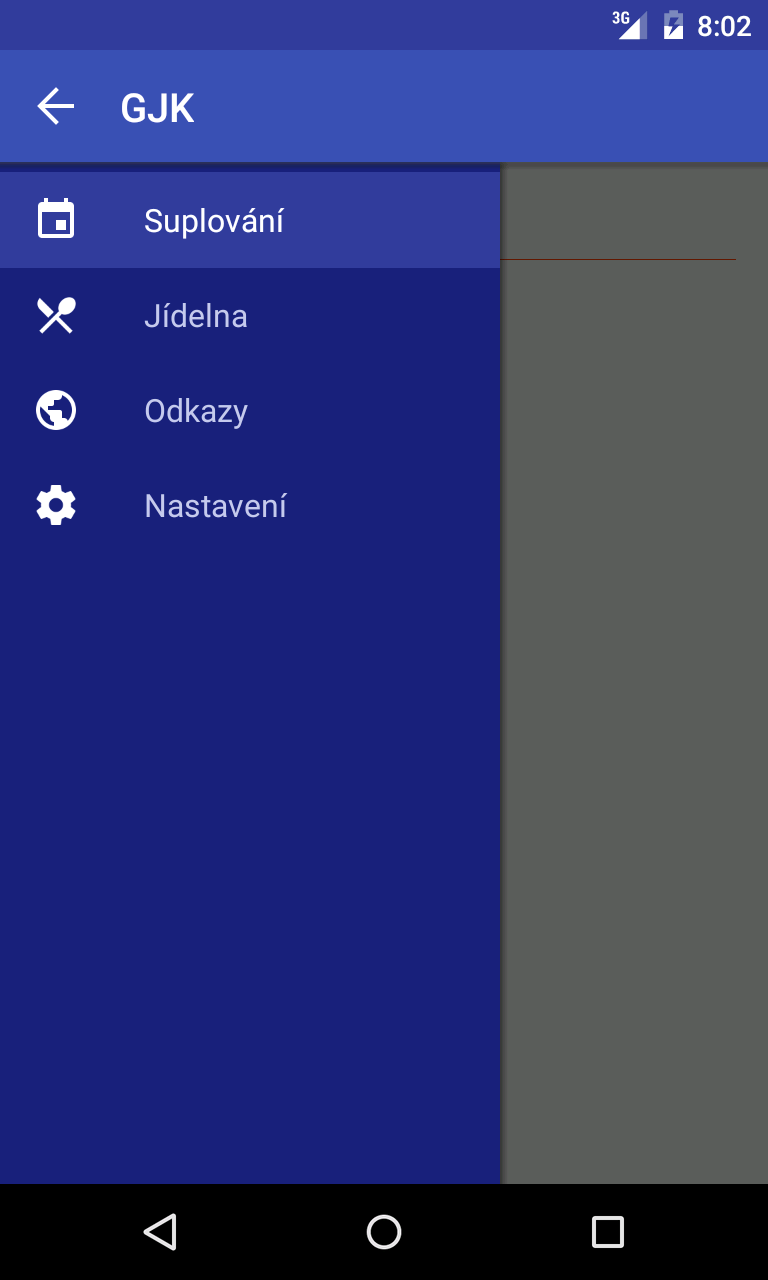
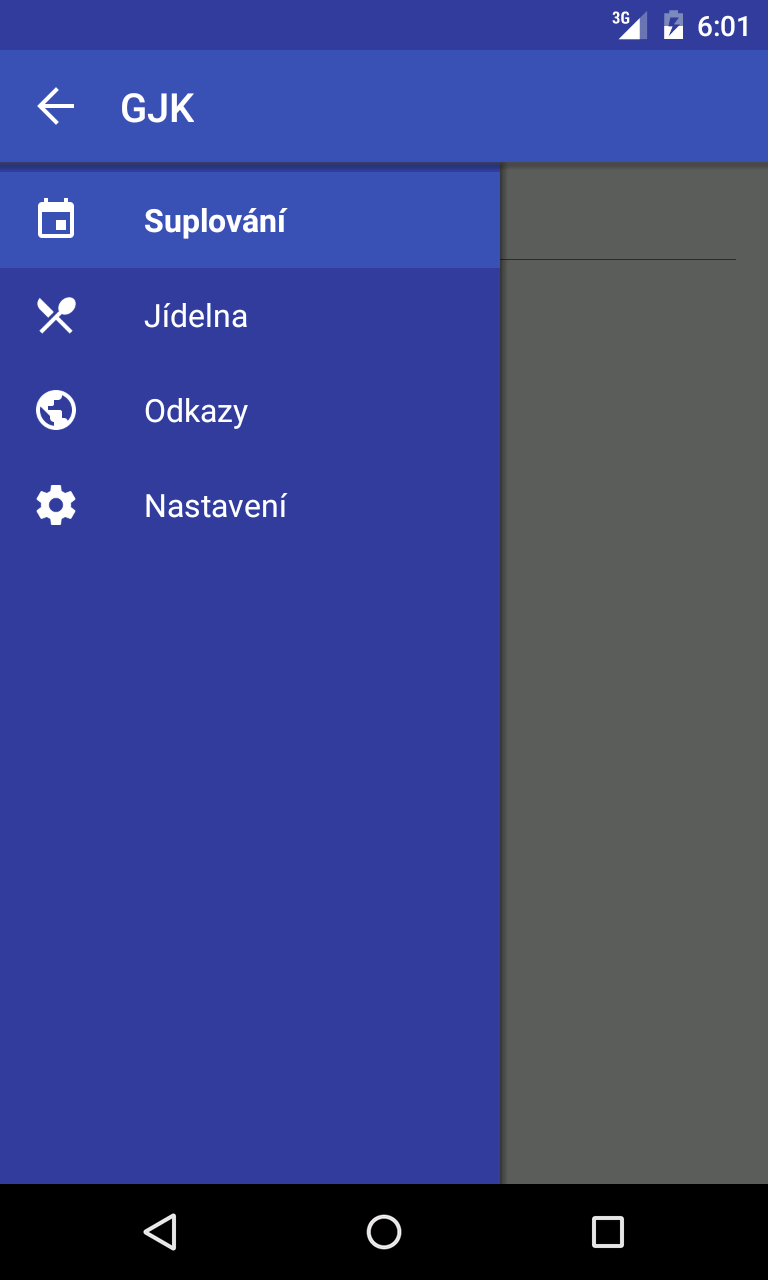
Zvýrazňování aktuální položky v navigaci

diff --git a/Kepler/app/src/main/java/gjk/kepler/Home.java b/Kepler/app/src/main/java/gjk/kepler/Home.java
@@ -14,6 +14,7 @@ import android.view.MenuItem;
 import android.view.View;
 import android.widget.AdapterView;
 import android.widget.ListView;
+import android.widget.Toast;
 
 import java.util.ArrayList;
 
@@ -24,6 +25,8 @@ public class Home extends BaseActivity {
 
     //navigation drawer
     private String[] navigationTitles;
+    private ArrayList<NavigationItem> navigationItems;
+    private NavigationAdapter drawerAdapter;
     private DrawerLayout drawerLayout;
     private ListView drawerList;
     private ActionBarDrawerToggle drawerToggle;
@@ -58,14 +61,15 @@ public class Home extends BaseActivity {
 
         navigationTitles = getResources().getStringArray(R.array.navigation_titles);
         TypedArray navigationIcons = getResources().obtainTypedArray(R.array.navigation_icons);
-        ArrayList<NavigationItem> navigationItems = new ArrayList<NavigationItem>();
+        navigationItems = new ArrayList<NavigationItem>();
         // Nastavit adapter, který naplní navigation_drawer položkami NavigationItem (TextView+ImageView),
         // které jsou specifikované v drawer_list_item.xml
         for(int i=0;i<navigationTitles.length;i++){
             navigationItems.add(new NavigationItem(navigationTitles[i], navigationIcons.getResourceId(i, -1)));
         }
         navigationIcons.recycle(); //uvolnit resources
-        drawerList.setAdapter(new NavigationAdapter(this, R.layout.drawer_list_item, R.id.navigationTitle, navigationItems));
+        drawerAdapter = new NavigationAdapter(this, R.layout.drawer_list_item, R.id.navigationTitle, navigationItems);
+        drawerList.setAdapter(drawerAdapter);
 
         // Zareagovat na kliknutí
         drawerList.setOnItemClickListener(new DrawerItemClickListener());
@@ -150,11 +154,14 @@ public class Home extends BaseActivity {
             Intent intent = new Intent(this, SettingsActivity.class);
             startActivity(intent);
         } else {
+            navigationItems.get(current).setActivated(false); //remove bold
             current = position;
             createContent(position);
 
-            drawerList.setItemChecked(position, true);
+            drawerList.setItemChecked(position, true); //default selector
             setTitle(navigationTitles[position]);
+            navigationItems.get(position).setActivated(true); //set bold
+            drawerAdapter.notifyDataSetChanged(); //update list (bold)
             drawerLayout.closeDrawer(drawerList);
         }
     }

diff --git a/Kepler/app/src/main/java/gjk/kepler/NavigationItem.java b/Kepler/app/src/main/java/gjk/kepler/NavigationItem.java
@@ -3,10 +3,12 @@ package gjk.kepler;
 public class NavigationItem {
     private String title;
     private int icon;
+    private boolean activated;
 
     public NavigationItem(String title, int icon){
         this.title = title;
         this.icon = icon;
+        this.activated = false;
     }
 
     public int getIcon(){
@@ -15,4 +17,7 @@ public class NavigationItem {
     public String getTitle(){
         return this.title;
     }
+    public boolean getActivated() { return this.activated; }
+
+    public void setActivated(boolean state) { this.activated = state; }
 }

diff --git a/Kepler/app/src/main/java/gjk/kepler/NavigationAdapter.java b/Kepler/app/src/main/java/gjk/kepler/NavigationAdapter.java
@@ -33,6 +33,11 @@ public class NavigationAdapter extends ArrayAdapter<NavigationItem>{
         TextView navTitle = (TextView) convertView.findViewById(R.id.navigationTitle);
 
         navIcon.setImageResource(navigationItems.get(position).getIcon());
+        if(navigationItems.get(position).getActivated()){
+            navTitle.setTypeface(Typeface.DEFAULT_BOLD);
+        }else{
+            navTitle.setTypeface(Typeface.DEFAULT);
+        }
         navTitle.setText(navigationItems.get(position).getTitle());
 
         return convertView;

diff --git a/README.md b/README.md
@@ -5,11 +5,11 @@ Kepler-GJK
 
 **Android aplikace pro Gymnázium Jana Keplera.**
 
-<img src="https://github.com/Dalimil/Kepler-GJK/blob/master/Docs/Screenshots/screenshot_suplovani.png" align="left" hspace="20" height="390" width="234" alt="Suplování"/>
+<img src="https://github.com/Dalimil/Kepler-GJK/blob/master/Docs/Screenshots/screenshot_suplovani.png" align="left" hspace="5" height="390" width="234" alt="Suplování"/>
 
-<img src="https://github.com/Dalimil/Kepler-GJK/blob/master/Docs/Screenshots/screenshot_jidelna.png" align="left" height="390" width="234" alt="Jídelna"/>
+<img src="https://github.com/Dalimil/Kepler-GJK/blob/master/Docs/Screenshots/screenshot_jidelna.png" align="left" hspace="5" height="390" width="234" alt="Jídelna"/>
 
-<img src="https://github.com/Dalimil/Kepler-GJK/blob/master/Docs/Screenshots/screenshot_settings.png" align="left" height="390" width="234" alt="Nastavení"/>
+<img src="https://github.com/Dalimil/Kepler-GJK/blob/master/Docs/Screenshots/screenshot_settings.png" align="left" hspace="5" height="390" width="234" alt="Nastavení"/>
 
 
 **Maturitní projekt z informatiky.** [Specifikace projektu](https://docs.google.com/document/d/1zhgz2ZLsTh7DuwjyZ96LdD6Nas5F6uHO7drYmZspkiM/edit?usp=sharing)
